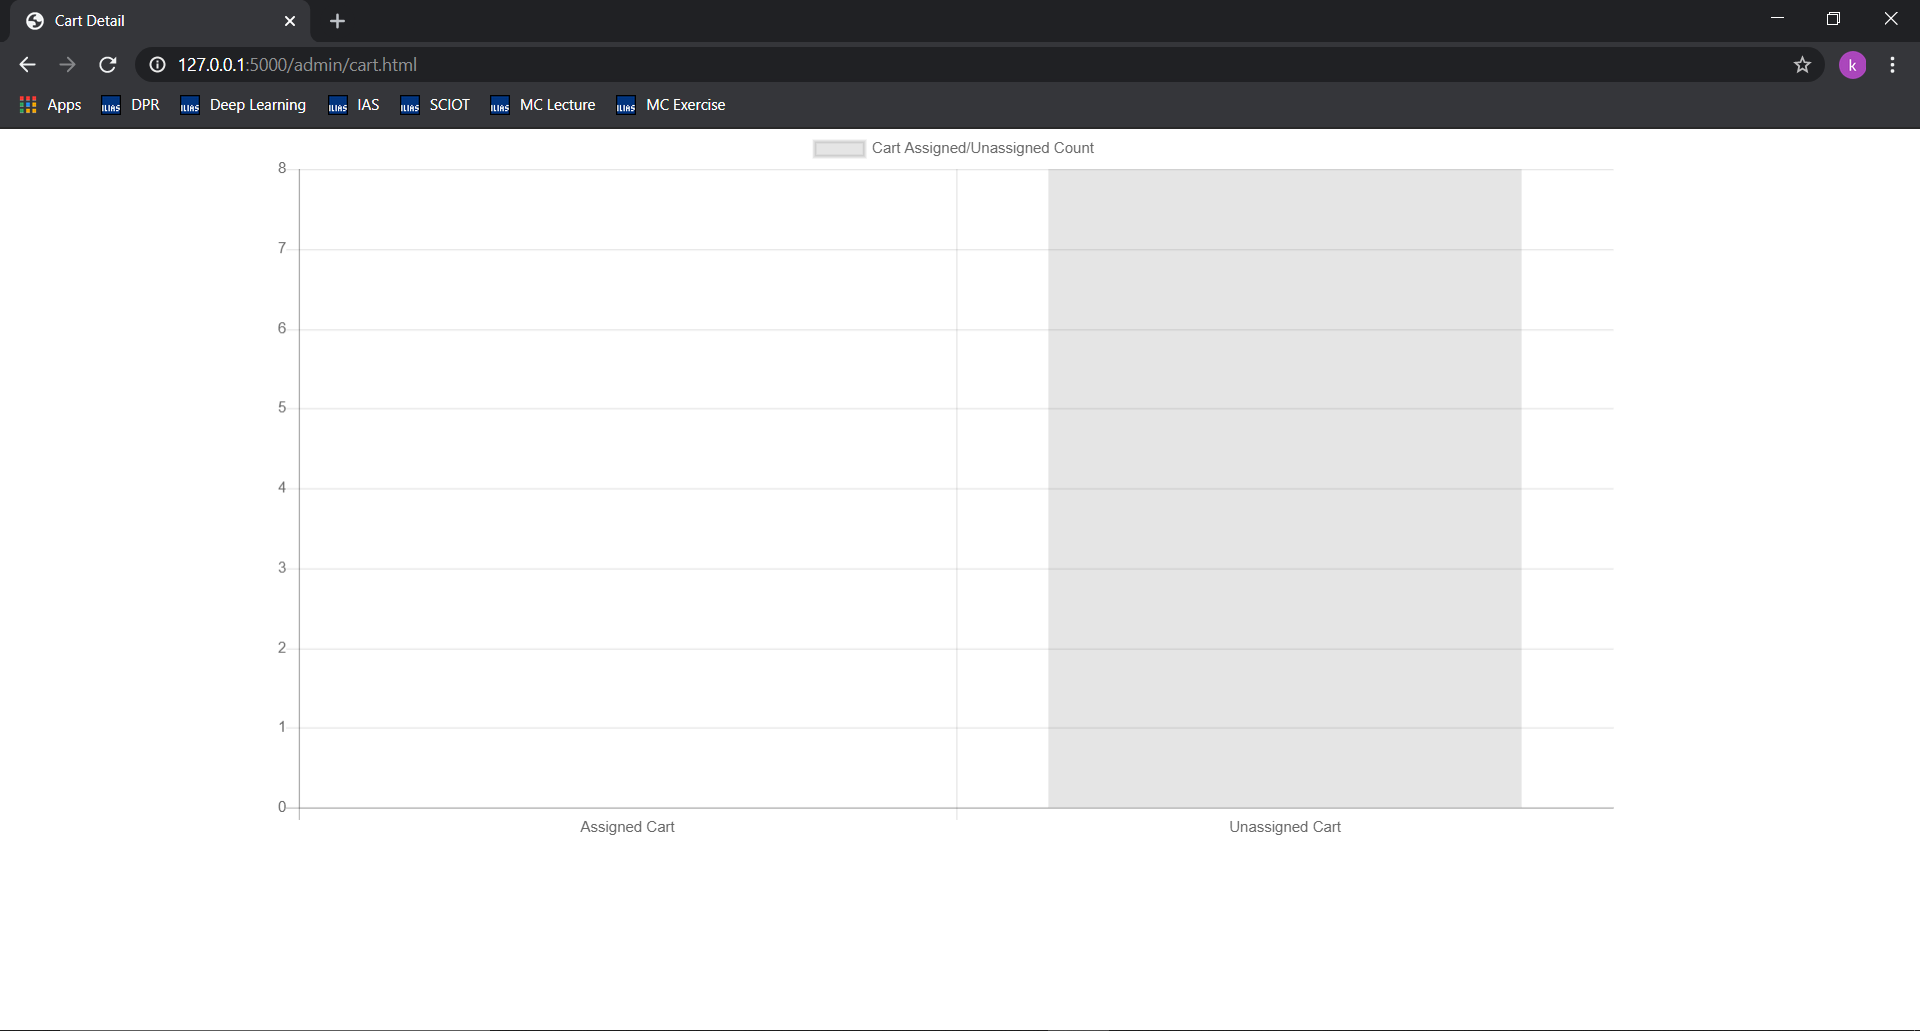
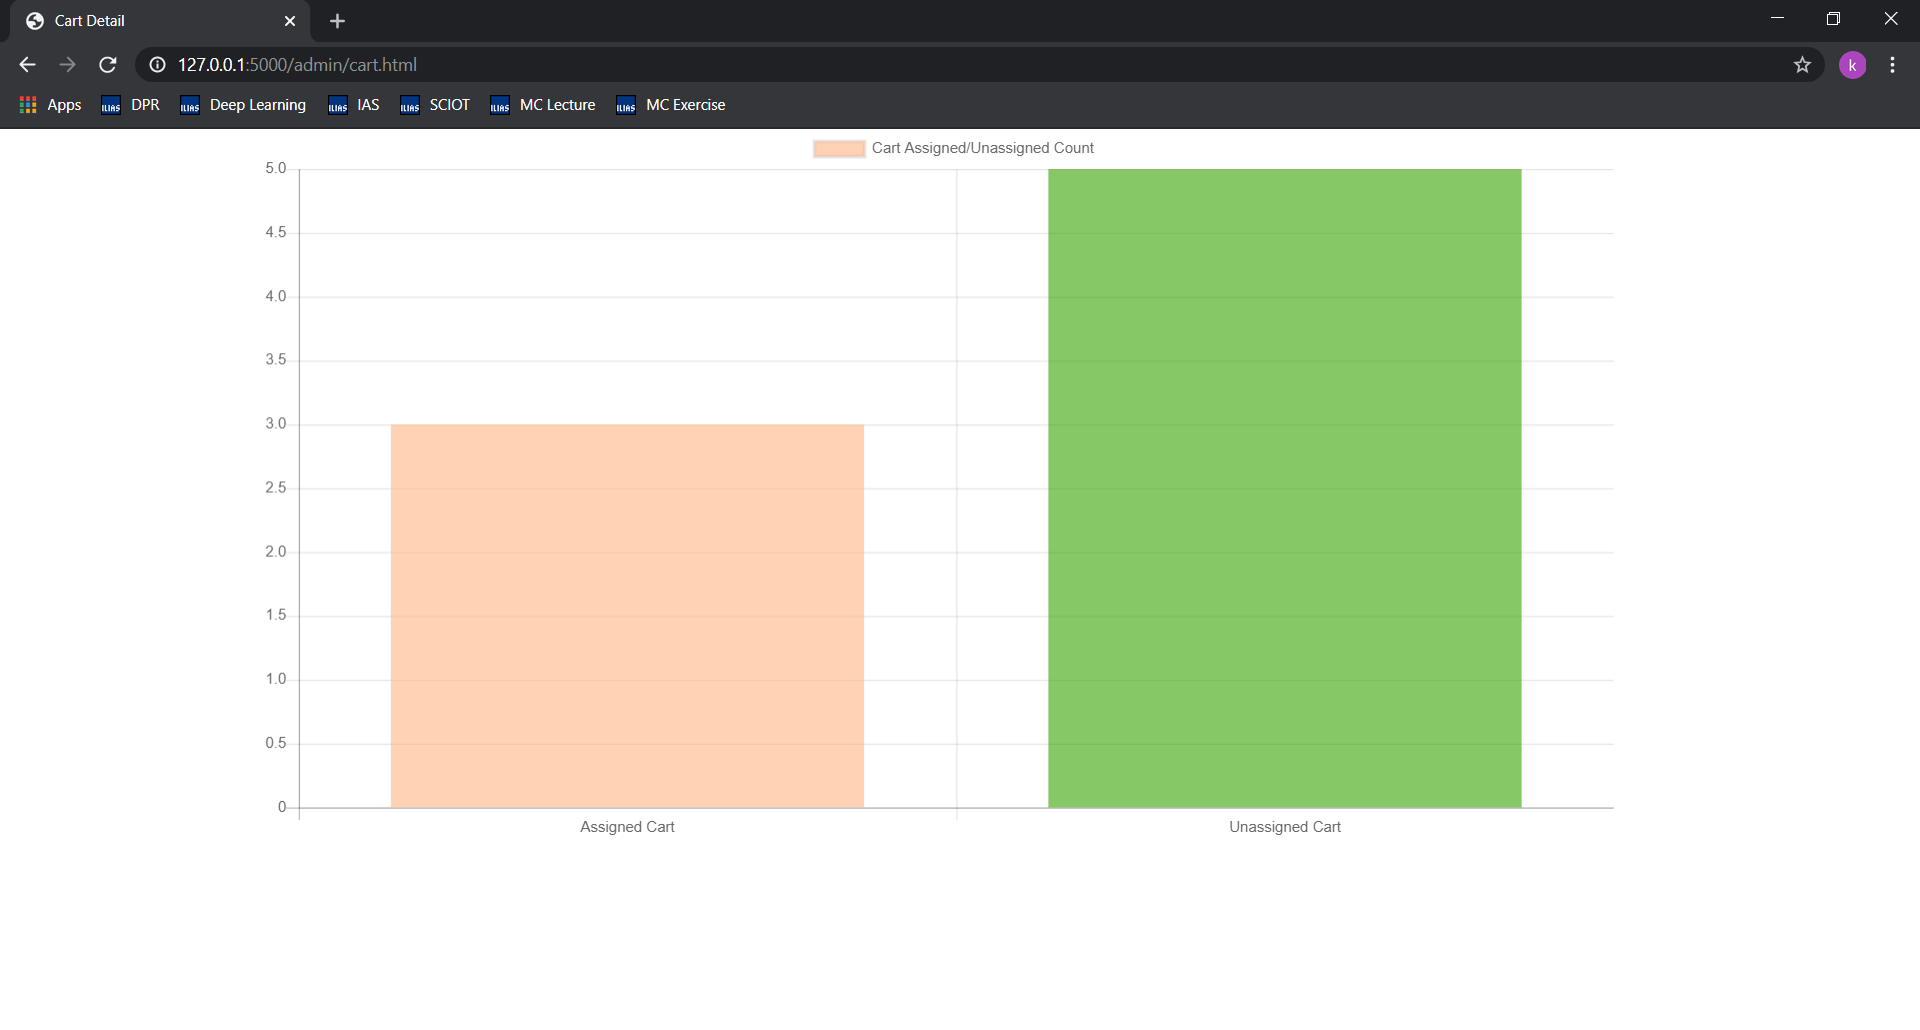
Change in chart colour

diff --git a/SPUGServer/item.html b/SPUGServer/item.html
@@ -29,9 +29,35 @@
         labels:['item0', 'item1', 'item2', 'item3', 'item4', 'item5', 'item6', 'item7', 'item8', 'item9', 'item10', 'item11', 'item12', 'item13', 'item14', 'item15'],
         datasets:[{
           label:'Item Count',
-          data:array
+          data:array,
+            backgroundColor:[
+            'rgba(50, 50, 132, 0.6)',
+            'rgba(50, 50, 132, 0.6)',
+            'rgba(50, 50, 132, 0.6)',
+            'rgba(50, 50, 132, 0.6)',
+            'rgba(50, 50, 132, 0.6)',
+            'rgba(50, 50, 132, 0.6)',
+            'rgba(50, 50, 132, 0.6)',
+            'rgba(50, 50, 132, 0.6)',
+            'rgba(50, 50, 132, 0.6)',
+            'rgba(50, 50, 132, 0.6)',
+            'rgba(50, 50, 132, 0.6)',
+            'rgba(50, 50, 132, 0.6)',
+            'rgba(50, 50, 132, 0.6)',
+            'rgba(50, 50, 132, 0.6)',
+            'rgba(50, 50, 132, 0.6)',
+            'rgba(50, 50, 132, 0.6)',
+                'rgba(50, 50, 132, 0.6)',
+          ]
+        },]
+      },options: {
+    scales: {
+        yAxes: [{
+            ticks: {
+                beginAtZero: true
+            }
         }]
-      }});
+    }}});
     }
 
 

diff --git a/SPUGServer/cart.html b/SPUGServer/cart.html
@@ -23,15 +23,30 @@
         var stringValue = request.response
         stringValue = stringValue.split("\"").join("")
         var array = stringValue.split(', ');
+        console.log(array)
         let massPopChart = new Chart(myChart, {
       type:'bar', // bar, horizontalBar, pie, line, doughnut, radar, polarArea
       data:{
         labels:['Assigned Cart', 'Unassigned Cart'],
         datasets:[{
           label:'Cart Assigned/Unassigned Count',
-          data:array
+          data:array,
+            backgroundColor:[
+            'rgba(255, 180, 132, 0.6)',
+            'rgba(54, 162, 0, 0.6)',
+          ]
         }]
-      }});
+      },
+            options: {
+    scales: {
+        yAxes: [{
+            ticks: {
+                beginAtZero: true
+            }
+        }]
+    }
+}}
+        );
     }
 
 

diff --git a/SPUGServer/MQTT.py b/SPUGServer/MQTT.py
@@ -10,7 +10,7 @@ import paho.mqtt.client as mqtt
 class MQTT:
 
     def __init__(self):
-        mqttIp = '192.168.0.102'
+        mqttIp = '192.168.1.9'
         MQTT.mqtt_subscriber = mqtt.Client('item tracking receiver')
         MQTT.mqtt_subscriber.on_message = MQTT.on_message
         MQTT.mqtt_subscriber.connect(mqttIp, 1883, 70)
@@ -98,6 +98,7 @@ class MQTT:
                             jmsg = json.dumps(message)
                             print(message)
                             MQTT.mqtt_publisher.publish('pointOccupied/'+ cartName + '/', jmsg, 2)
+                            time.sleep(1)
                             print("published")
 
 

diff --git a/SPUGServer/Point.py b/SPUGServer/Point.py
@@ -16,8 +16,8 @@ class Point:
                 pointElement.set("Y", str(y))
                 randomNumber = randrange(16)
                 if(randomNumber >= 3):
-                    pointElement.set("isPointOccupied", str(True))
-                else:
                     pointElement.set("isPointOccupied", str(False))
+                else:
+                    pointElement.set("isPointOccupied", str(True))
 
         XMLParser.getInstance().writeAndPretify(pointRoot, "Data/Points.xml")

diff --git a/SPUGAndriod/app/src/main/java/com/example/spug/MainActivity.java b/SPUGAndriod/app/src/main/java/com/example/spug/MainActivity.java
@@ -14,8 +14,8 @@ import java.util.UUID;
 public class MainActivity extends AppCompatActivity {
 
     String resultText = null;
-    static String hostUrl = "http://192.168.137.1:5000/";
-    static String mqttUrl = "tcp://192.168.137.1:1883";
+    static String hostUrl = "http://192.168.1.9:5000/";
+    static String mqttUrl = "tcp://192.168.1.9:1883";
     static int cartNum;
     AppCompatActivity appCompatActivity = this;
     static TextView responseText;
